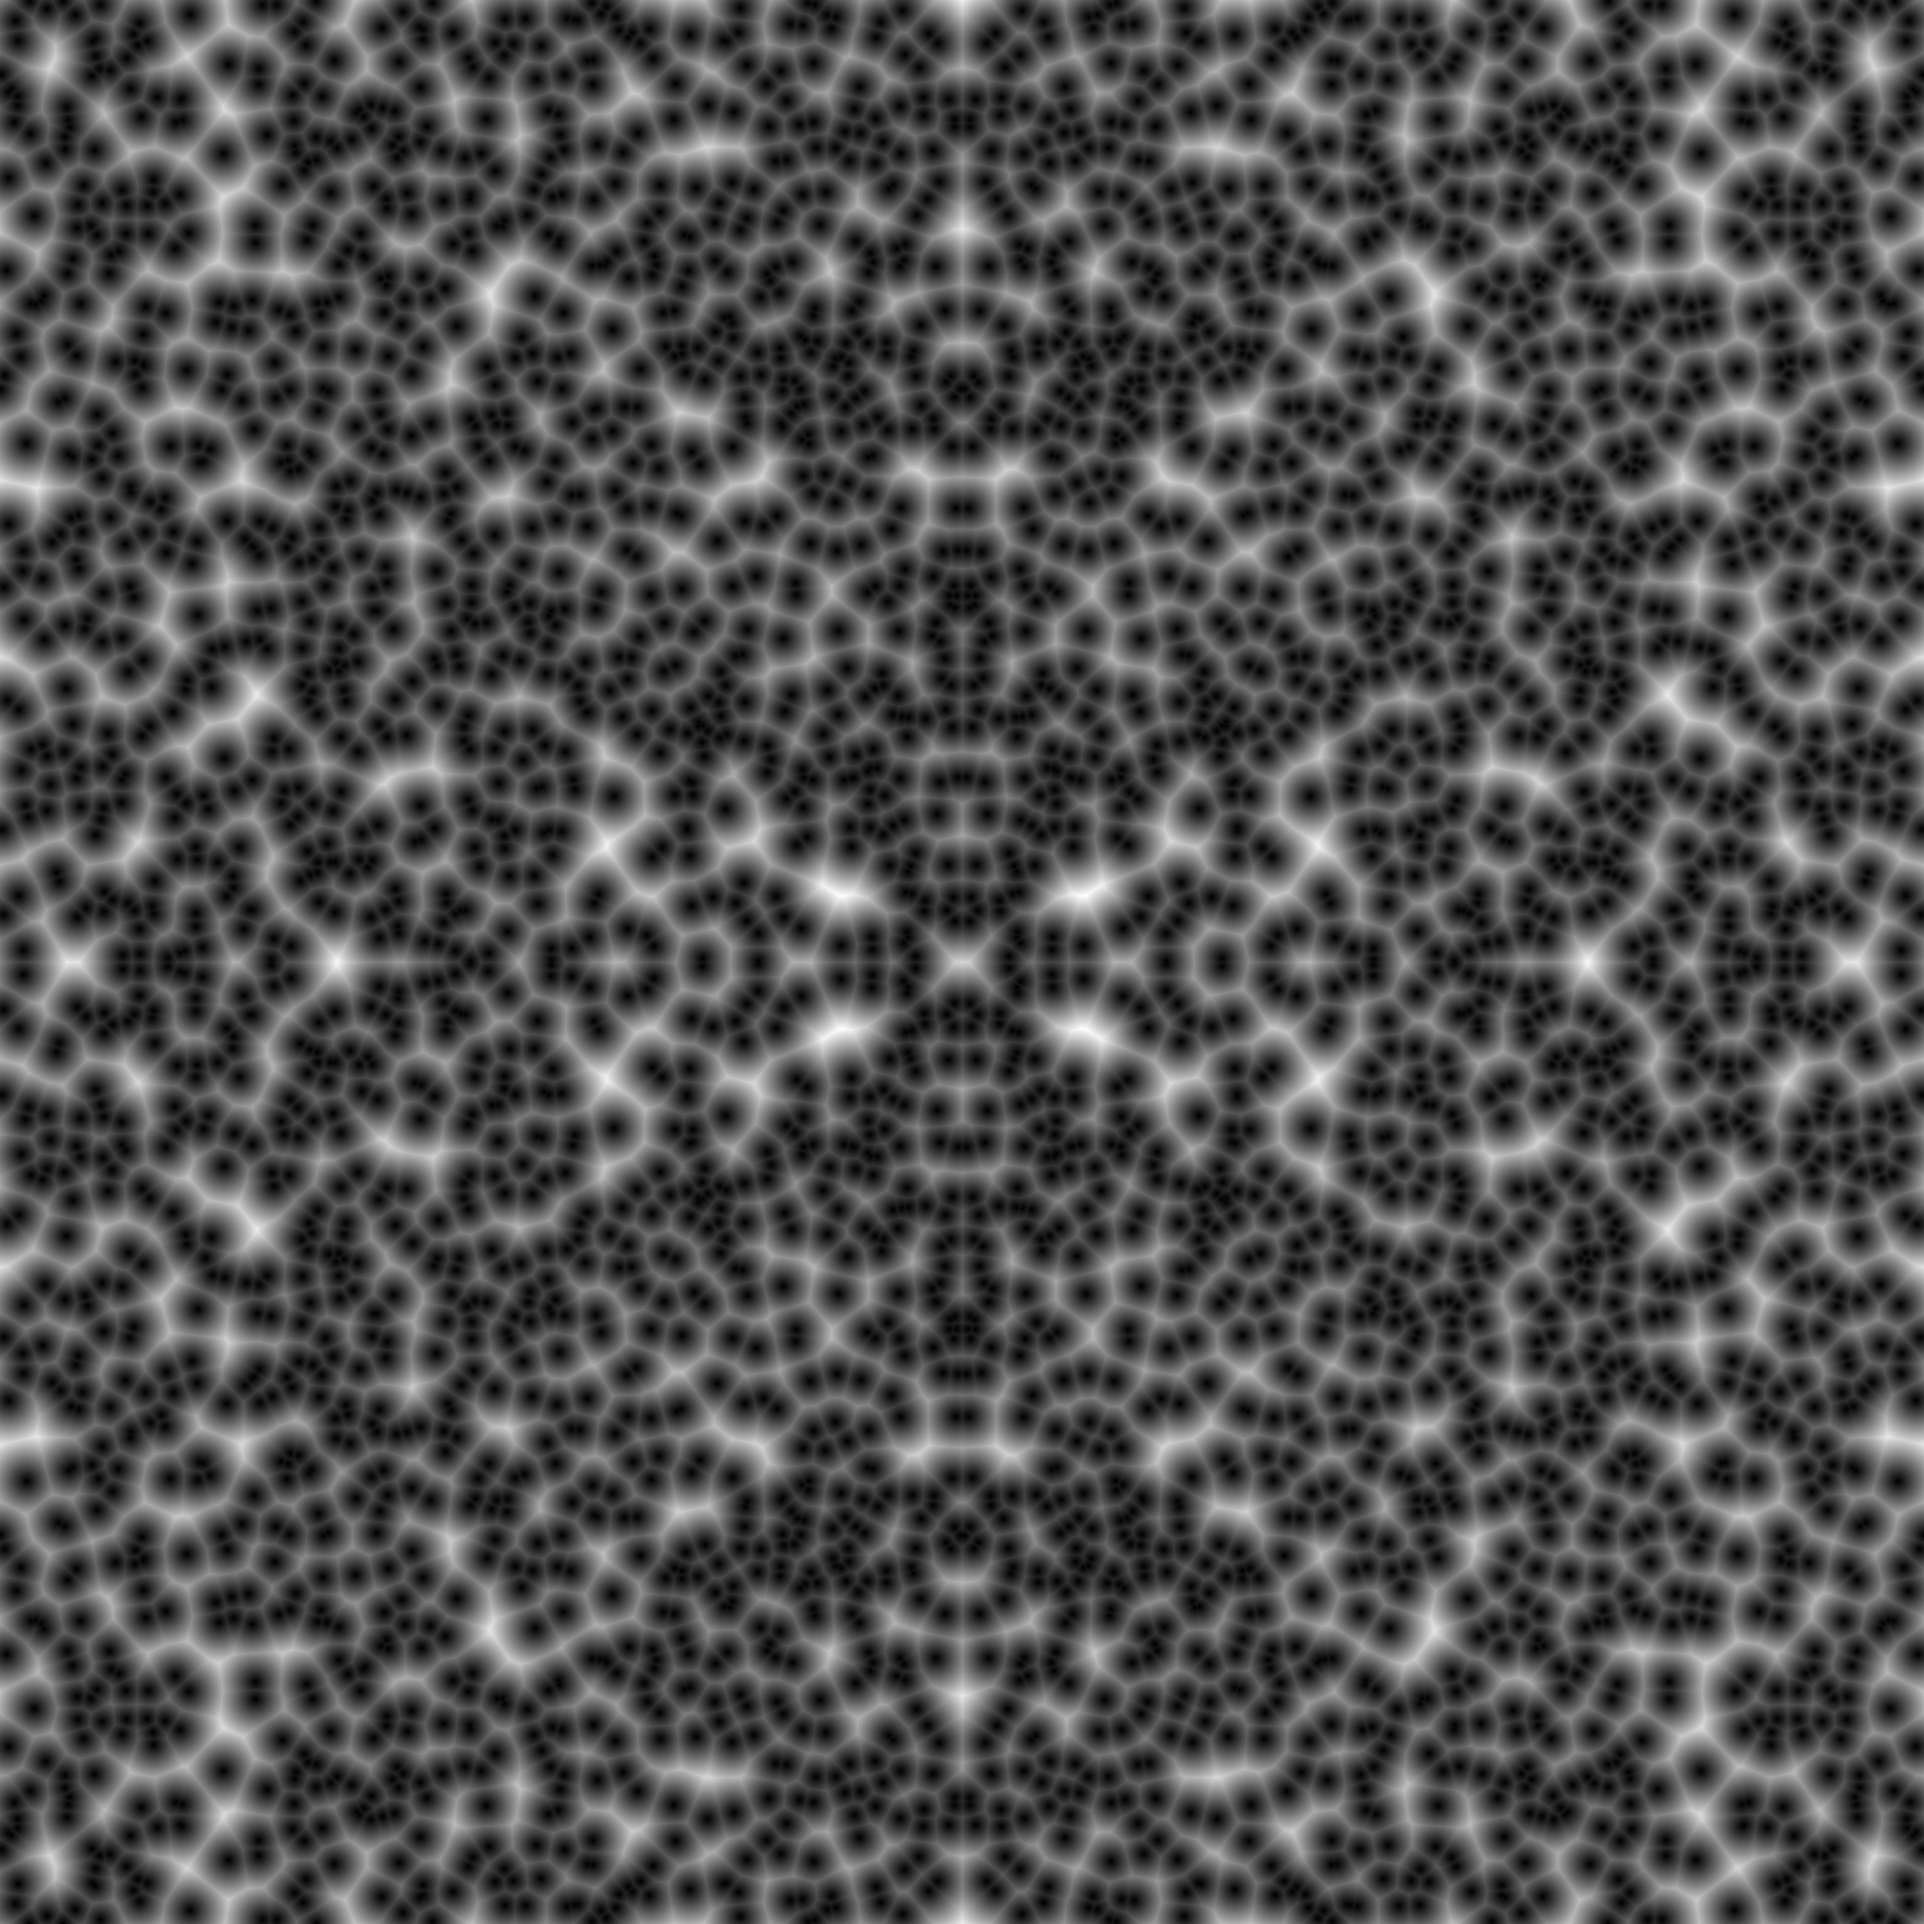
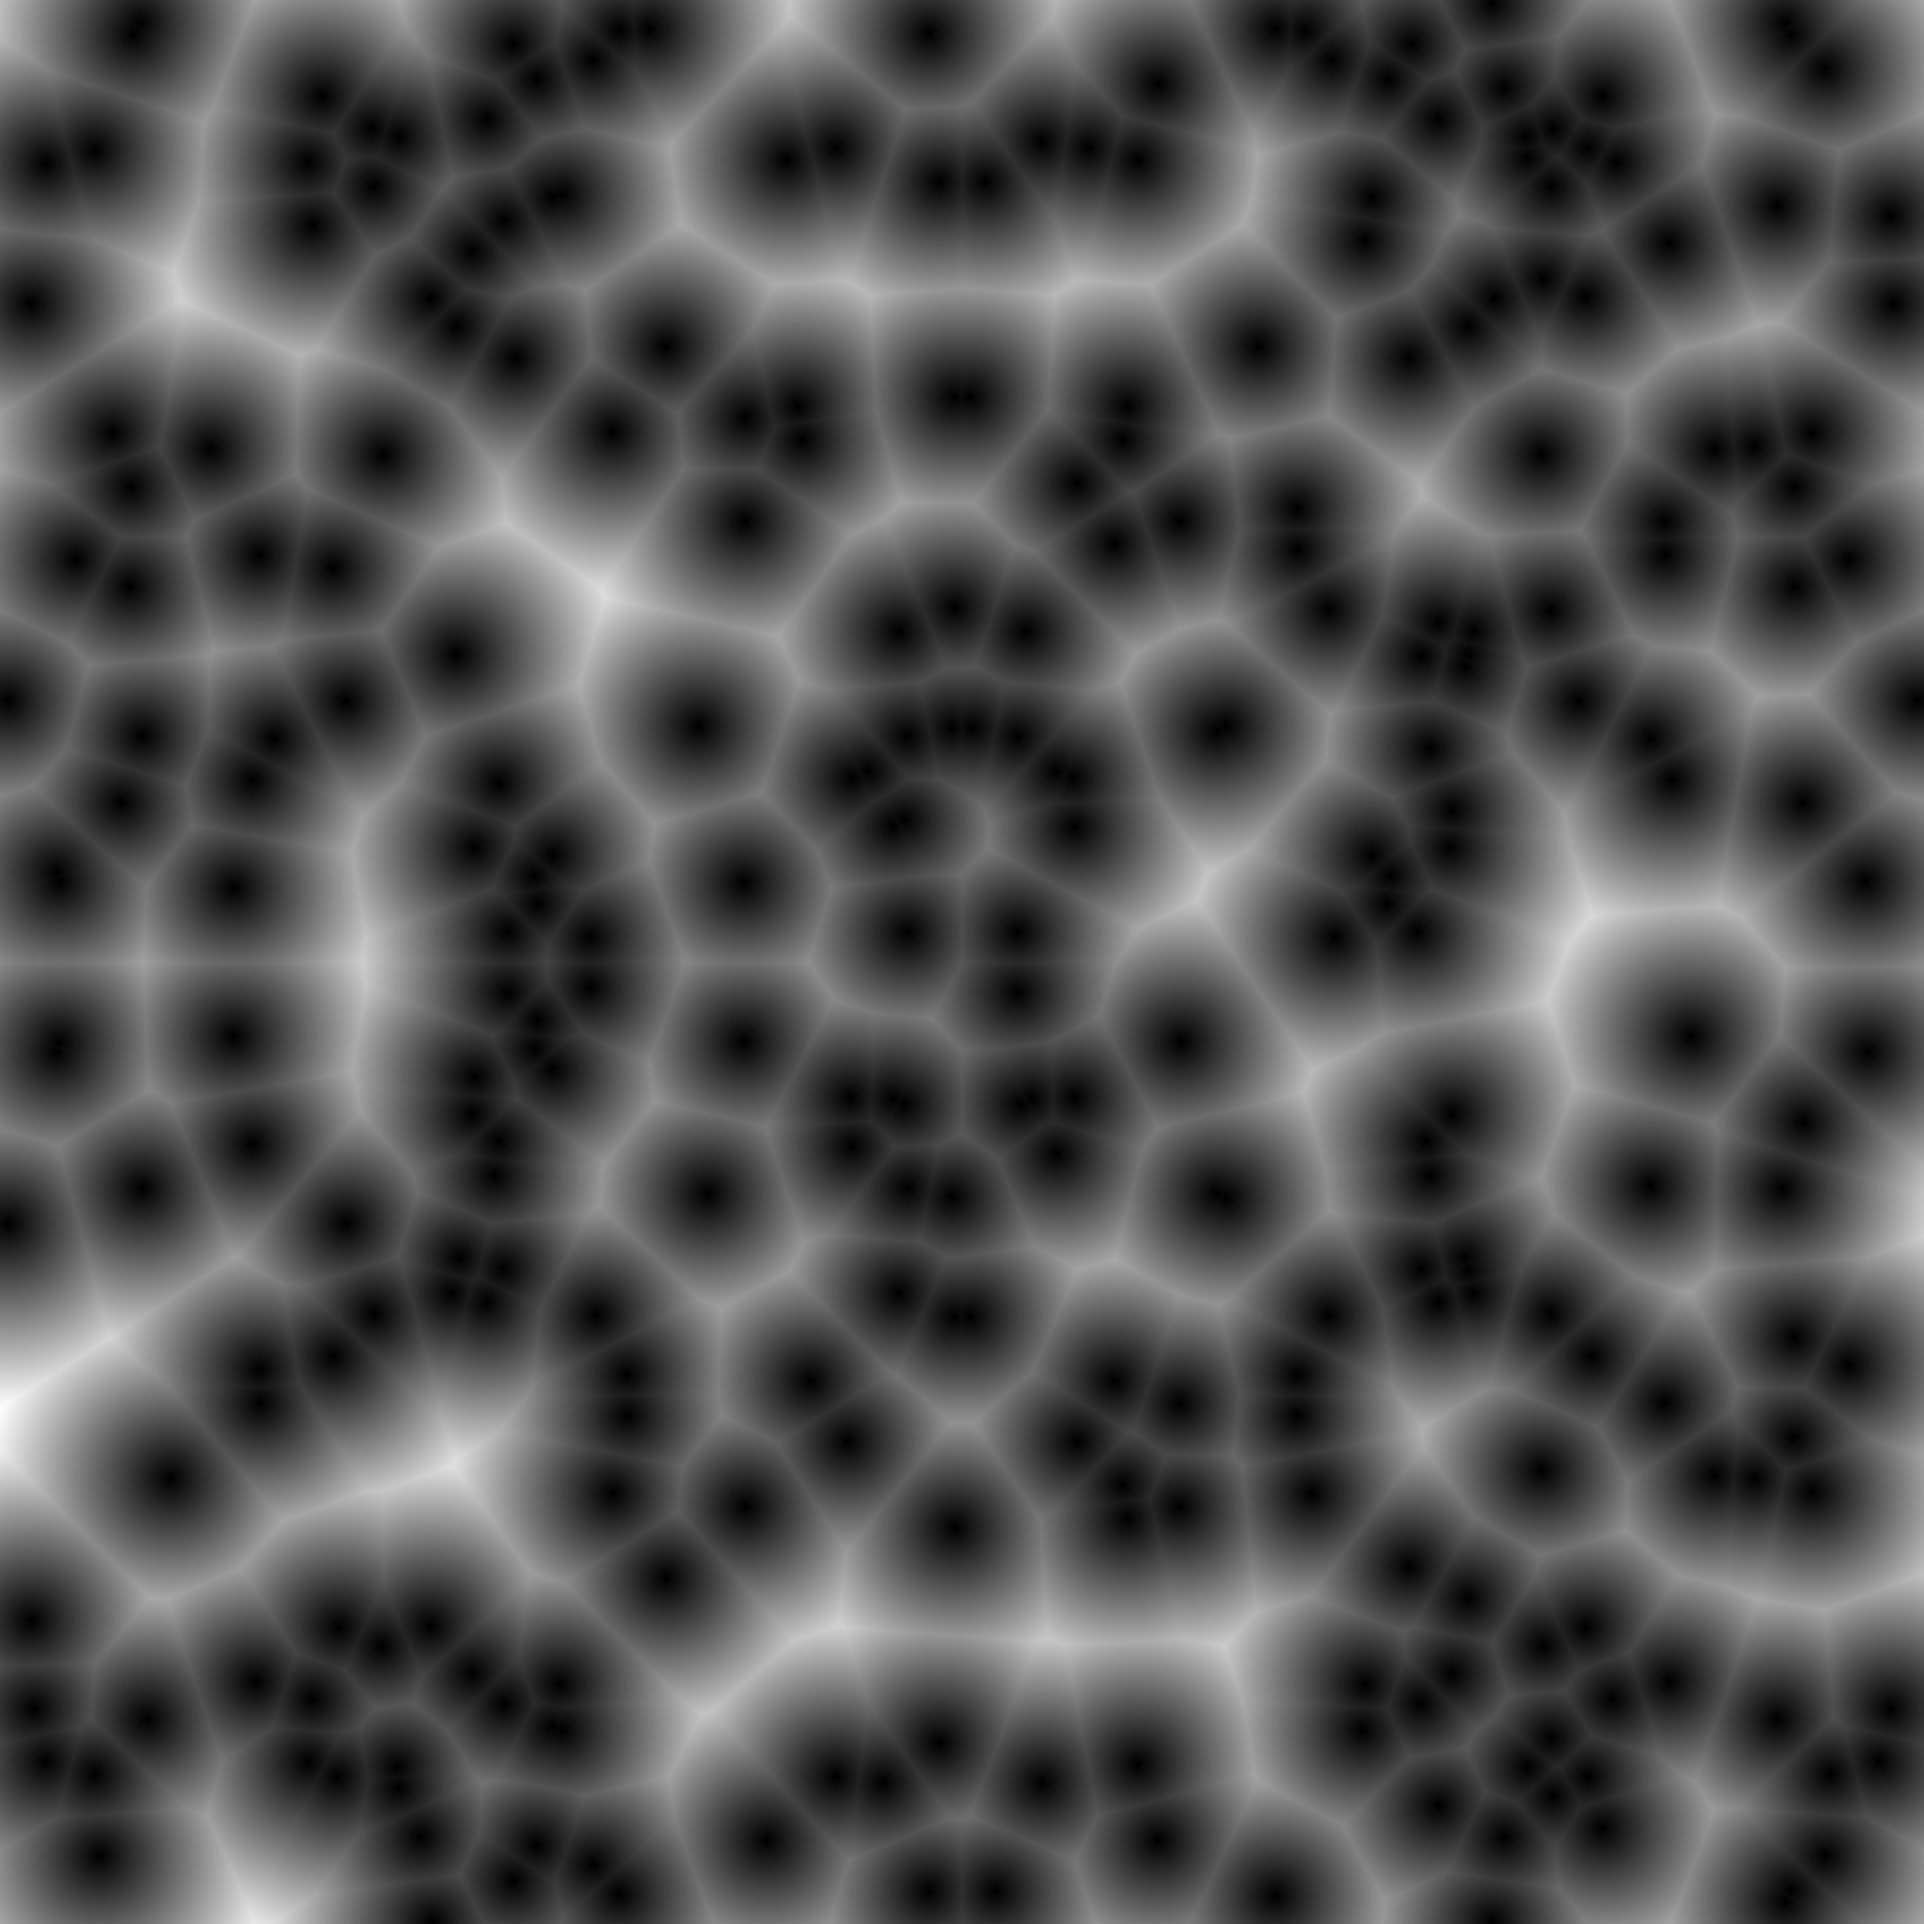
removed corners

diff --git a/src/main.rs b/src/main.rs
@@ -34,11 +34,7 @@ fn find_nearest(p: (usize, usize), tree: &KdTree, bounds: &(usize, usize)) -> f6
         (p.0, bounds.1 - p.1),
         (p.0, bounds.1 + p.1),
         (p.0 + bounds.0, p.1),
-        (p.0 + bounds.0, bounds.1 - p.1),
-        (p.0 + bounds.0, bounds.1 + p.1),
         (bounds.0 - p.0, p.1),
-        (bounds.0 - p.0, bounds.1 - p.1),
-        (bounds.0 - p.0, bounds.1 + p.1),
     ];
     mirrors
         .iter()

diff --git a/README.md b/README.md
@@ -3,10 +3,10 @@
 Based on https://blackpawn.com/texts/cellular/default.html
 
 ## 25 cells
-<img src="output.png" width="400" height="400" />
-
-## 100 cells
 <img src="output1.png" width="400" height="400" />
 
-## 1000 cells
+## 100 cells
 <img src="output2.png" width="400" height="400" />
+
+## 1000 cells
+<img src="output3.png" width="400" height="400" />
